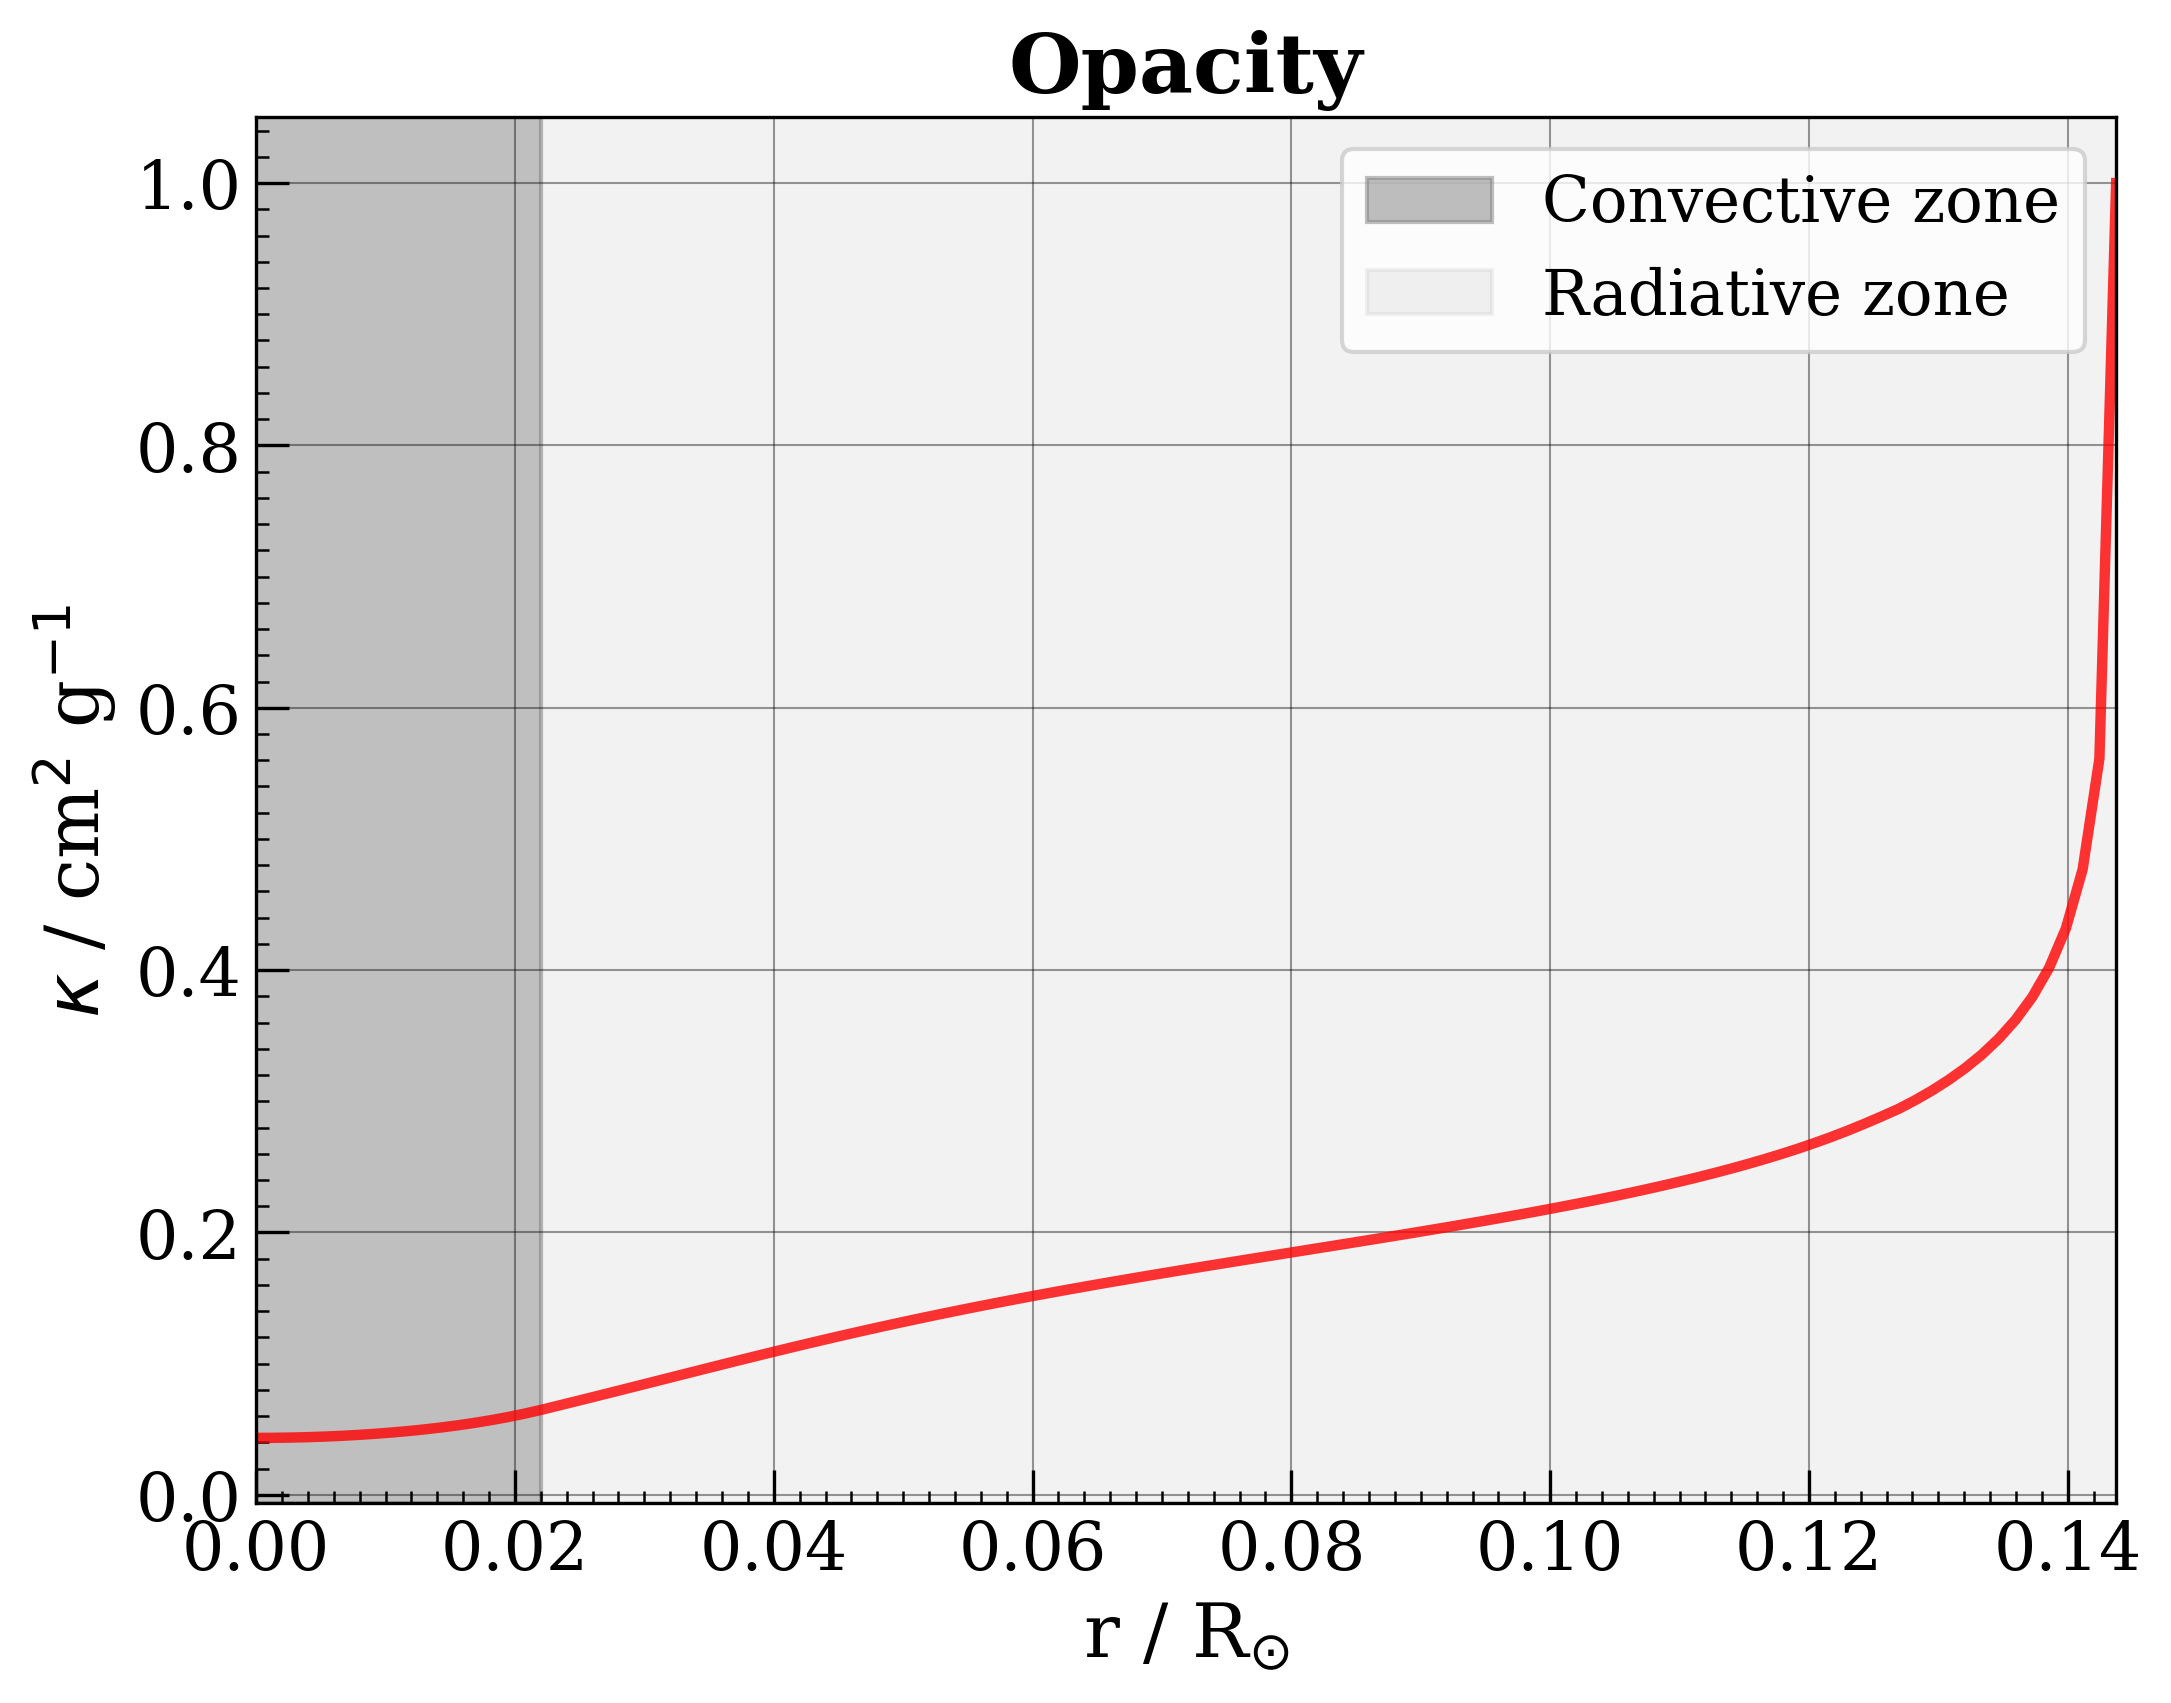
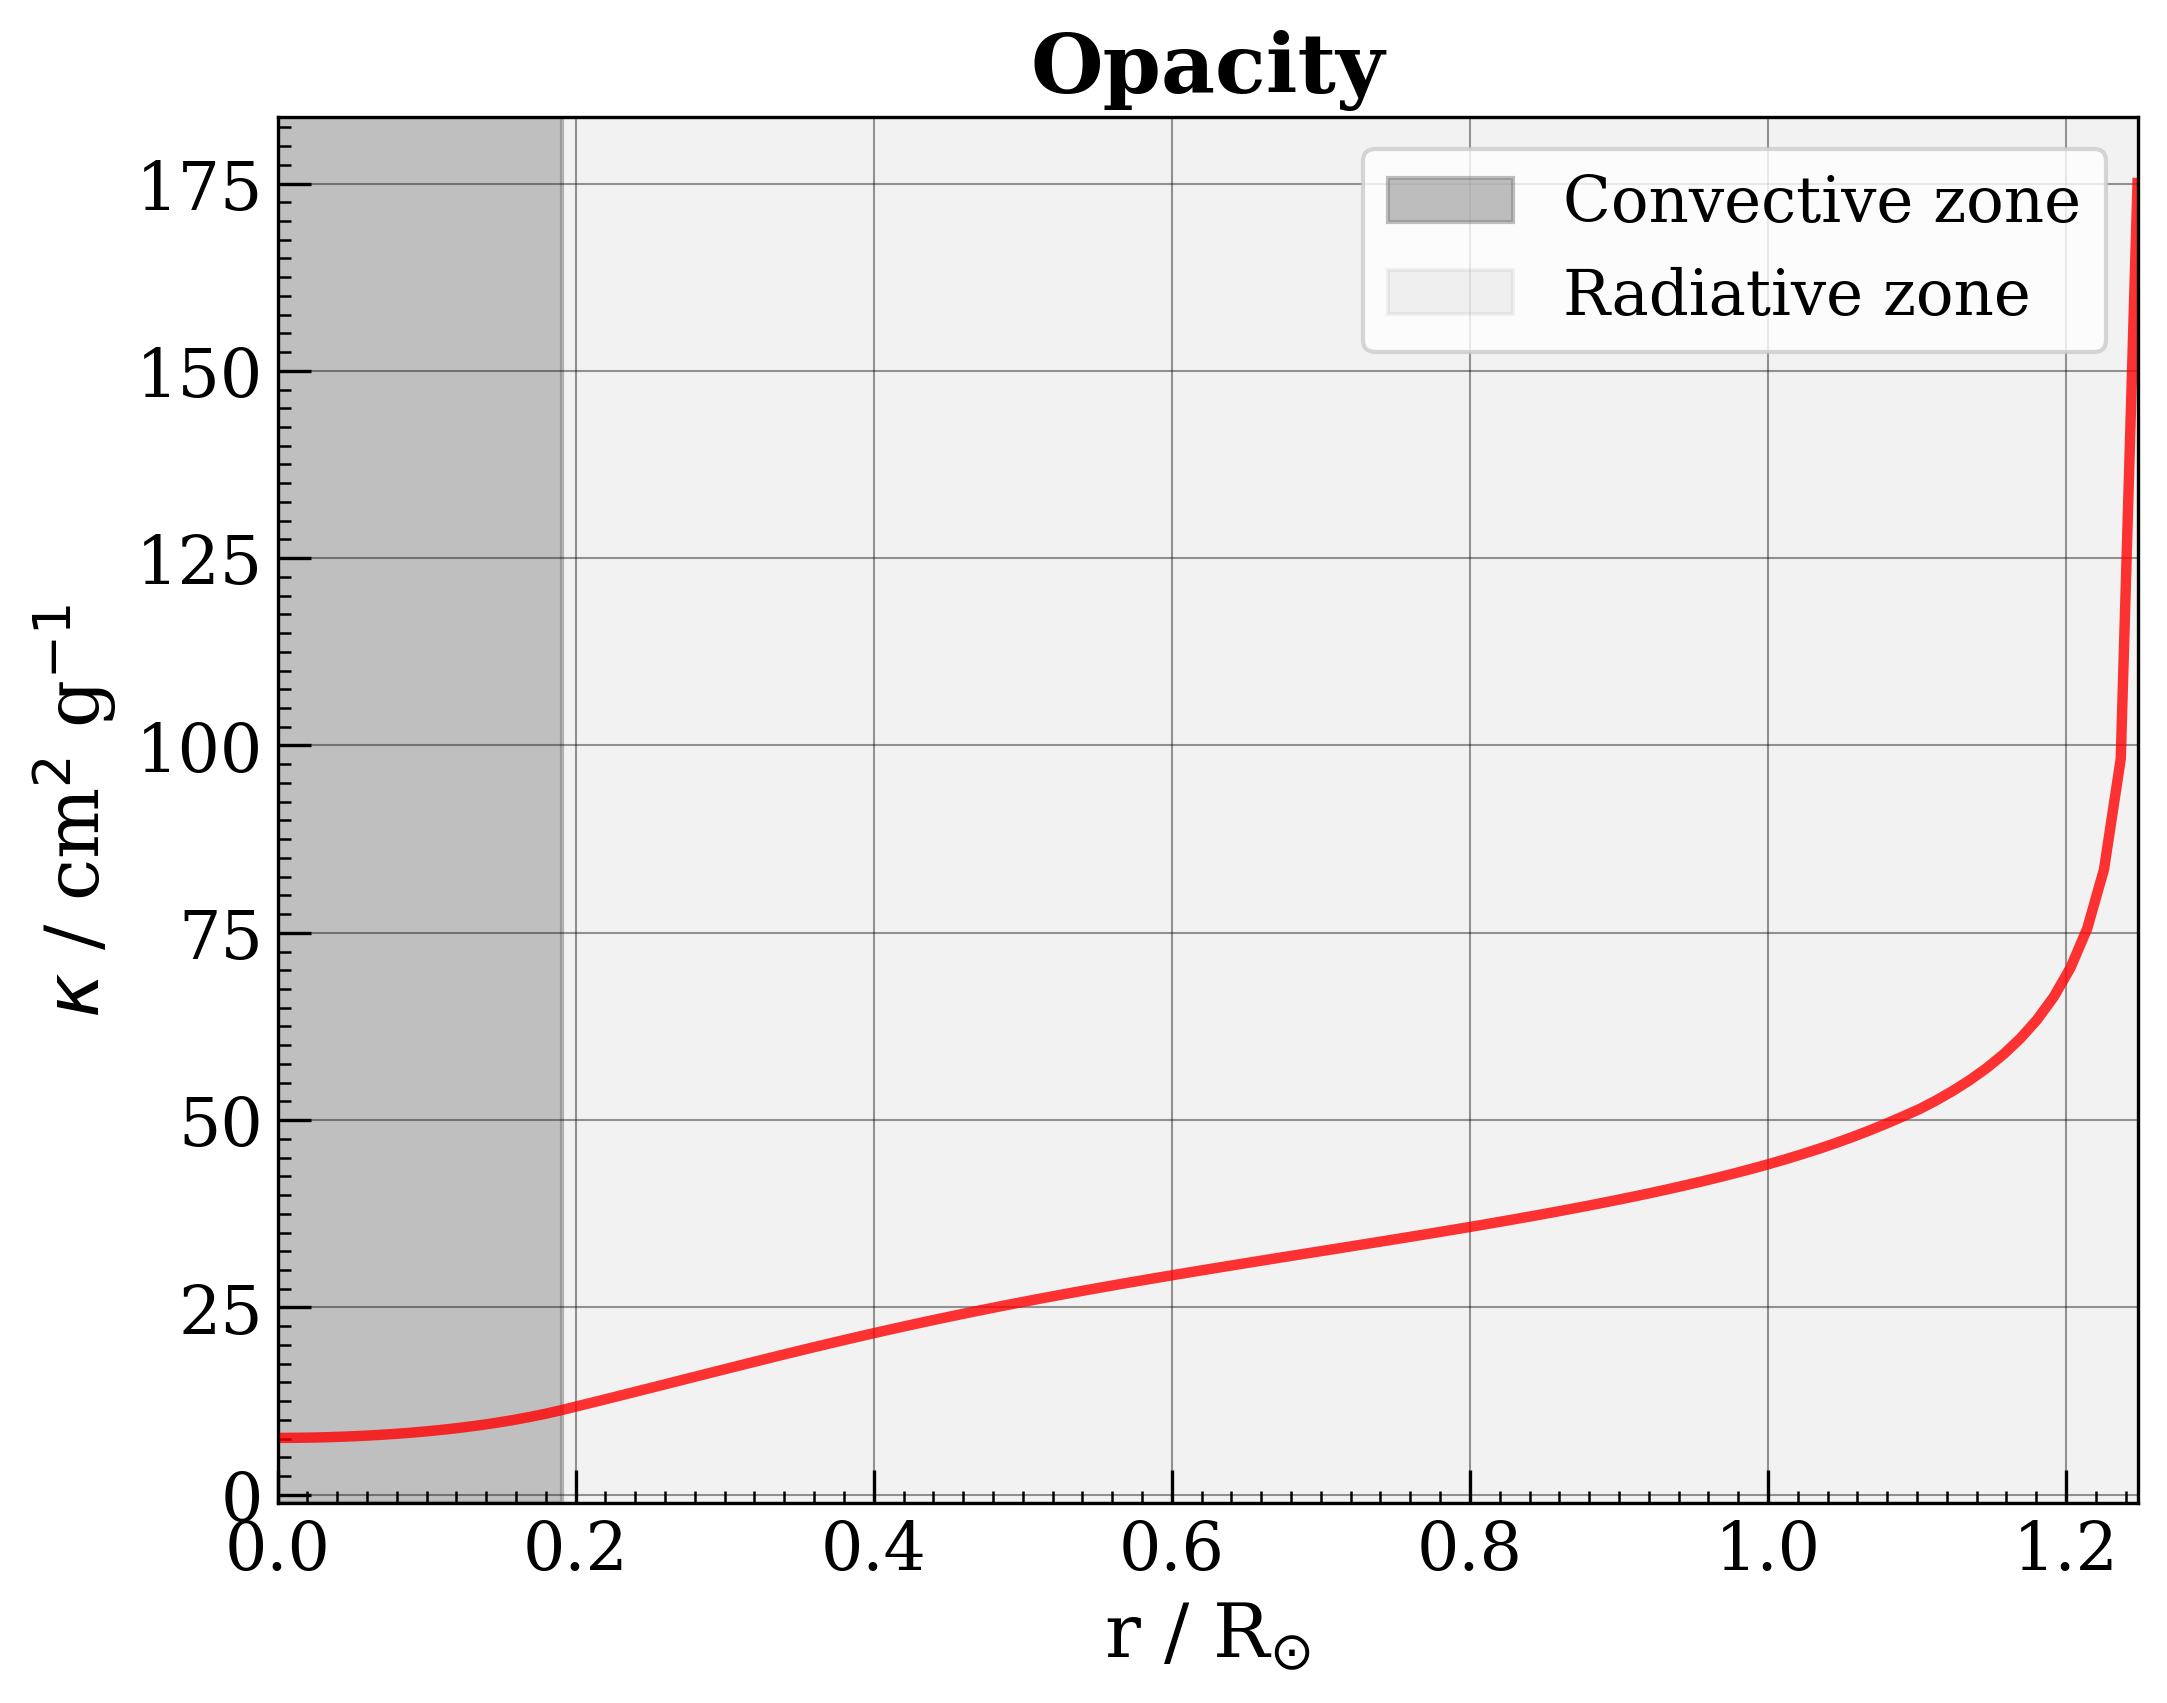
Several visualize bugs fixed

diff --git a/stellarpy/star.py b/stellarpy/star.py
@@ -86,7 +86,7 @@ class Star:
             self.Rtot = Rtot                                # Total radius of the star
             self.Ltot = Ltot                                # Total luminosity of the star
             self.Tc = Tc                                    # Central temperature of the star
-        
+
         # Defining other parameters
         self.X = X                                          # Fraction of star mass in H
         self.Y = Y                                          # Fraction of star mass in He
@@ -117,6 +117,9 @@ class Star:
                 If False, all data will be given using the model units.
         """
 
+        # Using model data
+        modelData = self.model.copy(deep=True)
+
         # Solar units are used
         if solar_units:
             # Defining sun parameters
@@ -124,16 +127,11 @@ class Star:
             Rsun = 6.957                            # 1e10 cm
             Lsun = 3.842                            # 1e33 erg s^-1
             # Redefining model units
-            modelData = self.model
             modelData["r"] = modelData["r"] / Rsun  # cm
             modelData["P"] = modelData["P"] * 1e15  # dyn cm^-2
             modelData["T"] = modelData["T"] * 1e7   # K
             modelData["m"] = modelData["m"] / Msun  # g
             modelData["l"] = modelData["l"] / Lsun  # erg s^-1
-        # Model units are used
-        else:
-            # Using model units
-            modelData = self.model
 
         # Returning the variables
         if variable == "all":
@@ -215,10 +213,12 @@ class Star:
         # Changing font
         plt.rcParams["font.family"] = "serif"
 
+        # Using calculated values
+        modelData = self.get(variable="all")
+
         # Normalized units are used
         if normalize:
             # Redefining model units
-            modelData = self.model
             modelData["r"] = modelData["r"] / max(modelData["r"])
             modelData["P"] = modelData["P"] / max(modelData["P"])
             modelData["T"] = modelData["T"] / max(modelData["T"])
@@ -247,7 +247,6 @@ class Star:
             Rsun = 6.957     # 1e10 cm
             Lsun = 3.842     # 1e33 erg s^-1
             # Redefining model units
-            modelData = self.model
             modelData["r"] = modelData["r"] / Rsun  # cm
             modelData["P"] = modelData["P"] * 1e15  # dyn cm^-2
             modelData["T"] = modelData["T"] * 1e7   # K
@@ -267,19 +266,19 @@ class Star:
                                 index=["r", "P", "T", "l", "m", "rho", "epsilon", "kappa"])
 
         # Calculating the x value for which the transition to the convective zone occurs
-        transition = self.model[self.model["fase"] == "CONVEC"].iloc[0][x_axis] 
+        transition = modelData[modelData["fase"] == "CONVEC"].iloc[0][x_axis] 
 
         # All curves in the same figure (normalized plots)
         if merge:
             plt.figure(figsize=figsize)
             for variable in which:
-                plt.plot(self.model[x_axis], self.model[variable]/self.model[variable].max(), label=plots.loc[variable]["title"], linewidth=2.5, alpha=0.8)
+                plt.plot(modelData[x_axis], modelData[variable]/modelData[variable].max(), label=plots.loc[variable]["title"], linewidth=2.5, alpha=0.8)
 
             # Customizing the plot
             plt.title("Stellar-interior model", fontsize=20, weight="bold")     # Title
             plt.xlabel(plots.loc[x_axis]["label"], fontsize=18)                 # x axis label
             # plt.ylabel("Normalized magnitude", fontsize=14)                   # y axis label
-            plt.xlim((min(self.model[x_axis]), max(self.model[x_axis])))        # x limits
+            plt.xlim((min(modelData[x_axis]), max(modelData[x_axis])))        # x limits
             plt.ylim((-0.05, 1.05))                                             # y limits
             plt.tick_params(axis="both", labelsize=16)                          # Numbering size
             plt.gca().tick_params(direction="in", which="major", length=8)      # Major ticks size and orientation
@@ -289,10 +288,10 @@ class Star:
             
             if x_axis in ["r", "l", "m", "kappa"]:
                 plt.axvspan(-1, transition, color="gray", alpha=0.5, label="Convective zone")                               # Marking the convective zone of the star
-                plt.axvspan(transition, self.model[x_axis].iloc[0]*1.5, color="gray", alpha=0.1, label="Radiative zone")    # Marking the radiative zone of the star
+                plt.axvspan(transition, modelData[x_axis].iloc[0]*1.5, color="gray", alpha=0.1, label="Radiative zone")    # Marking the radiative zone of the star
             else:
                 plt.axvspan(-1, transition, color="gray", alpha=0.1, label="Radiative zone")                                                # Marking the convective zone of the star
-                plt.axvspan(transition, self.model[x_axis].iloc[len(self.model)-1]*1.5, color="gray", alpha=0.5, label="Convective zone")   # Marking the radiative zone of the star
+                plt.axvspan(transition, modelData[x_axis].iloc[len(modelData)-1]*1.5, color="gray", alpha=0.5, label="Convective zone")   # Marking the radiative zone of the star
 
             plt.legend(fontsize=15)                                                                                     # Leyend
             plt.grid(which="major", linestyle="-", color = "black", linewidth=0.5, alpha=0.4, visible=True)             # Major grid
@@ -302,14 +301,14 @@ class Star:
         else:
             for variable in which:
                 plt.figure(figsize=figsize)
-                plt.plot(self.model[x_axis], self.model[variable], color="red", linewidth=2.5, alpha=0.8)
+                plt.plot(modelData[x_axis], modelData[variable], color="red", linewidth=2.5, alpha=0.8)
 
                 # Customizing the plots for each figure
                 plt.title(plots.loc[variable]["title"], fontsize=20, weight="bold") # Title
                 plt.xlabel(plots.loc[x_axis]["label"], fontsize=18)                 # x axis label
                 plt.ylabel(plots.loc[variable]["label"], fontsize=18)               # y axis label
-                plt.xlim((min(self.model[x_axis]), max(self.model[x_axis])))        # x limits
-                plt.ylim((min(self.model[variable])-0.05*max(self.model[variable]), max(self.model[variable])*1.05))  # y limits
+                plt.xlim((min(modelData[x_axis]), max(modelData[x_axis])))        # x limits
+                plt.ylim((min(modelData[variable])-0.05*max(modelData[variable]), max(modelData[variable])*1.05))  # y limits
                 plt.tick_params(axis="both", labelsize=16)                          # Numbering size
                 plt.gca().tick_params(direction="in", which="major", length=8)      # Major ticks size and orientation
                 plt.gca().tick_params(direction="in", which="minor", length=3)      # Minor ticks size and orientation
@@ -318,10 +317,10 @@ class Star:
 
                 if x_axis in ["r", "l", "m", "kappa"]:
                     plt.axvspan(-1, transition, color="gray", alpha=0.5, label="Convective zone")                               # Marking the convective zone of the star
-                    plt.axvspan(transition, self.model[x_axis].iloc[0]*1.5, color="gray", alpha=0.1, label="Radiative zone")    # Marking the radiative zone of the star
+                    plt.axvspan(transition, modelData[x_axis].iloc[0]*1.5, color="gray", alpha=0.1, label="Radiative zone")    # Marking the radiative zone of the star
                 else:
                     plt.axvspan(-1, transition, color="gray", alpha=0.1, label="Radiative zone")                                                # Marking the convective zone of the star
-                    plt.axvspan(transition, self.model[x_axis].iloc[len(self.model)-1]*1.5, color="gray", alpha=0.5, label="Convective zone")   # Marking the radiative zone of the star
+                    plt.axvspan(transition, modelData[x_axis].iloc[len(modelData)-1]*1.5, color="gray", alpha=0.5, label="Convective zone")   # Marking the radiative zone of the star
 
                 plt.legend(fontsize=15)                                                                                     # Leyend
                 plt.grid(which="major", linestyle="-", color = "black", linewidth=0.5, alpha=0.4, visible=True)             # Major grid

diff --git a/README.md b/README.md
@@ -188,7 +188,7 @@ $$M = 1.86 M_\odot \quad X=0.710 \quad Y=0.271$$
 
 As initial parameters for the rest of the magnitudes we will consider as follows:
 
-$$R = 1.5\,R_\odot \quad L = 10\,L_\odot \quad T_c = 1.5\cdot10^7\,\text{K}$$
+$$R = 1.5R_\odot \quad L = 10L_\odot \quad T_c = 1.5\cdot10^7\text{K}$$
 
 This way, the `Star` object is initialized as shown.
 
@@ -239,7 +239,7 @@ Altair.visualize(which=["kappa", "epsilon"], normalize=False)
 
 <div align="center">
   <img src="images/usage_example2.png" width="45%">
-  <img src="images/usage_example3.png" width="45.5%">
+  <img src="images/usage_example3.png" width="45%">
 </div>
 
 
